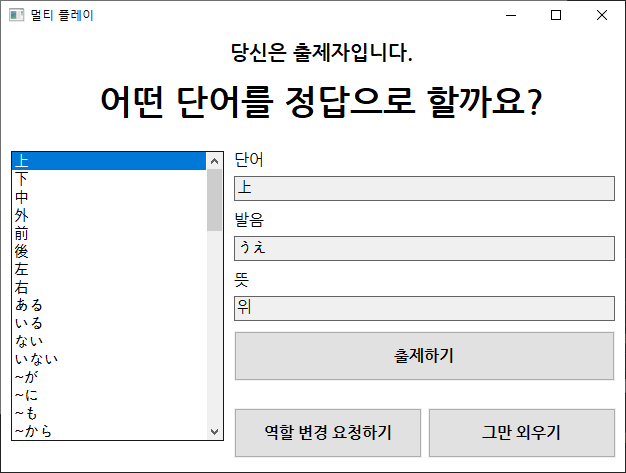
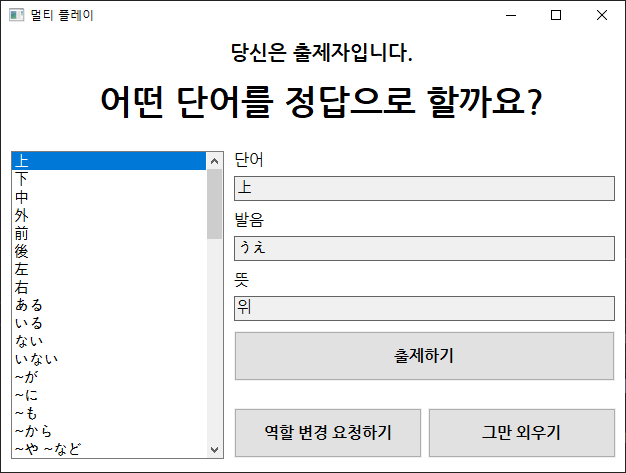
ExaminerWindow가 처음 열렸을 때 단어 목록의 세로 길이가 다소 짧던 버그 수정

diff --git a/ExaminerWindow.c b/ExaminerWindow.c
@@ -219,6 +219,7 @@ LRESULT CALLBACK ExaminerWindowProc(HWND handle, UINT message, WPARAM wParam, LP
 void CreateChildren(HWND handle, RECT windowSize) {
 	g_WordList = CreateAndShowChild(_T("listbox"), NULL, GlobalDefaultFont, WS_BORDER | WS_VSCROLL | LBS_NOTIFY,
 		10, 120, WIDTH / 3, HEIGHT - 160, handle, 0);
+	SendMessage(handle, WM_SIZE, 0, 0);
 	for (int i = 0; i < g_QuestionOption->Vocabulary.Count; ++i) {
 		SendMessage(g_WordList, LB_ADDSTRING, 0, (LPARAM)g_QuestionOption->Vocabulary.Array[i].Word);
 	}

diff --git a/README.md b/README.md
@@ -46,7 +46,7 @@
 	<img src="https://github.com/kmc7468/WordReminder/blob/master/img/QuestionWindow_Examiner2.png" width="49%" />
 </p>
 
-턴제 모드에서, 먼저 출제자는 컴퓨터가 생성한 5개의 선지를 확인할 수 있습니다. 출제자는 이 중 하나의 단어를 골라 응시자에게 해당 단어를 맞히도록 할 수 있습니다. 응시자가 문제를 맞힐 때까지 출제자는 대기하게 됩니다.
+턴제 모드에서, 먼저 출제자는 컴퓨터가 생성한 5개의 선지를 확인할 수 있습니다. 출제자는 이 중 하나의 단어를 골라 응시자에게 해당 단어를 맞히도록 할 수 있습니다. 이후 응시자가 문제를 맞힐 때까지 출제자는 대기하게 됩니다.
 
 <p float="left">
 	<img src="https://github.com/kmc7468/WordReminder/blob/master/img/QuestionWindow_Examinee1.png" width="49%" />
@@ -65,7 +65,7 @@
 	<img src="https://github.com/kmc7468/WordReminder/blob/master/img/ExaminerWindow_2.png" width="49%" />
 </p>
 
-역할 고정 모드에서, 먼저 출제자는 단어 목록을 확인할 수 있습니다. 출제자는 이 중 하나의 단어를 골라 응시자에게 해당 단어를 맞히도록 할 수 있습니다. 선택한 단어 외의 선지는 컴퓨터가 자동으로 생성합니다. 응시자가 문제를 맞힐 때까지 출제자는 대기하게 됩니다.
+역할 고정 모드에서, 먼저 출제자는 단어 목록을 확인할 수 있습니다. 출제자는 이 중 하나의 단어를 골라 응시자에게 해당 단어를 맞히도록 할 수 있습니다. 선택한 단어 외의 선지는 컴퓨터가 자동으로 생성합니다. 이후 응시자가 문제를 맞힐 때까지 출제자는 대기하게 됩니다.
 
 <p float="left">
 	<img src="https://github.com/kmc7468/WordReminder/blob/master/img/QuestionWindow_FixedExaminee1.png" width="49%" />
